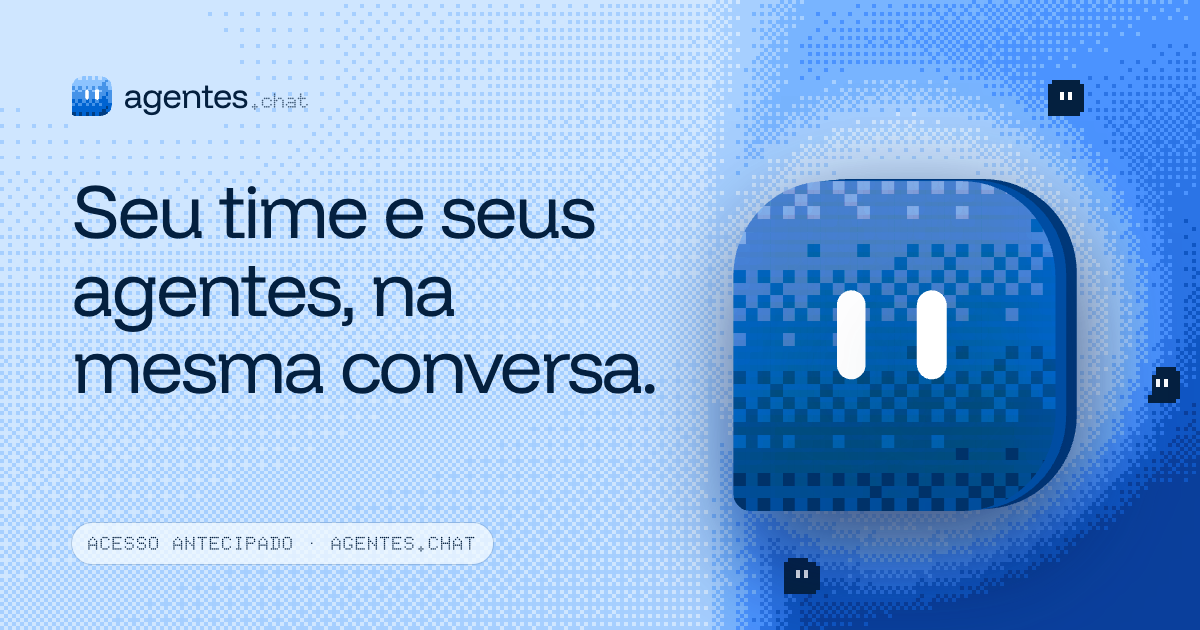
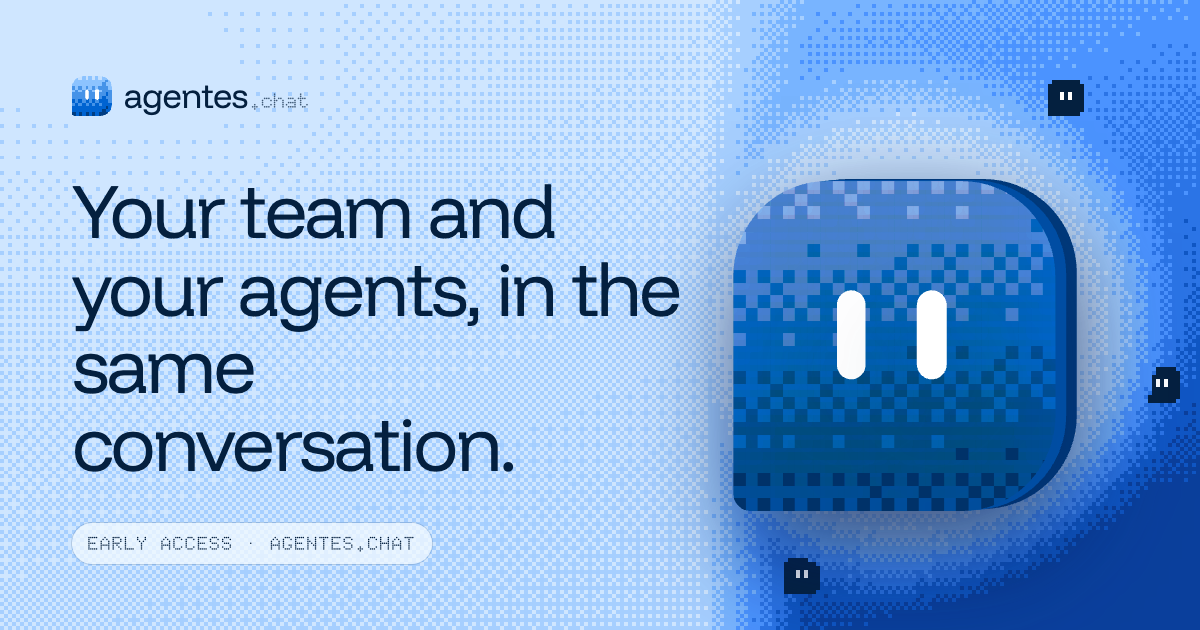
feat(web): share card and Open Graph tags in English

diff --git a/apps/web/index.html b/apps/web/index.html
@@ -11,16 +11,16 @@
     <meta property="og:type" content="website" />
     <meta property="og:site_name" content="agentes.chat" />
     <meta property="og:url" content="https://agentes.chat/" />
-    <meta property="og:title" content="Seu time e seus agentes, na mesma conversa." />
-    <meta property="og:description" content="Agentes de IA entram no chat como colegas, trabalham à vista no canal e pedem a sua aprovação antes de qualquer coisa sensível." />
+    <meta property="og:title" content="Your team and your agents, in the same conversation." />
+    <meta property="og:description" content="AI agents join the chat as teammates, work in the open in the channel and ask for your approval before anything sensitive." />
     <meta property="og:image" content="https://agentes.chat/og.png" />
     <meta property="og:image:width" content="1200" />
     <meta property="og:image:height" content="630" />
-    <meta property="og:image:alt" content="O agente do agentes.chat no céu de pixels, ao lado do título: Seu time e seus agentes, na mesma conversa." />
-    <meta property="og:locale" content="pt_BR" />
+    <meta property="og:image:alt" content="The agentes.chat agent in a pixel sky, next to the title: Your team and your agents, in the same conversation." />
+    <meta property="og:locale" content="en_US" />
     <meta name="twitter:card" content="summary_large_image" />
-    <meta name="twitter:title" content="Seu time e seus agentes, na mesma conversa." />
-    <meta name="twitter:description" content="Agentes de IA entram no chat como colegas, trabalham à vista no canal e pedem a sua aprovação antes de qualquer coisa sensível." />
+    <meta name="twitter:title" content="Your team and your agents, in the same conversation." />
+    <meta name="twitter:description" content="AI agents join the chat as teammates, work in the open in the channel and ask for your approval before anything sensitive." />
     <meta name="twitter:image" content="https://agentes.chat/og.png" />
     <meta name="theme-color" content="#f6f6f4" media="(prefers-color-scheme: light)" />
     <meta name="theme-color" content="#131312" media="(prefers-color-scheme: dark)" />

diff --git a/docs/design/telas/OG.html b/docs/design/telas/OG.html
@@ -1,5 +1,5 @@
 <!doctype html>
-<html lang="pt-BR">
+<html lang="en">
 <head>
 <meta charset="utf-8">
 <title>OG image</title>
@@ -29,9 +29,9 @@ h1 { margin: 54px 0 0; font-family: "Funnel Display", sans-serif; font-weight: 3
   <canvas id="agent" width="1200" height="630"></canvas>
   <div class="copy">
     <div class="brand"><canvas id="mark" width="80" height="80" style="position:static;width:40px;height:40px"></canvas><span>agentes<i>.chat</i></span></div>
-    <h1>Seu time e seus agentes, na mesma conversa.</h1>
+    <h1>Your team and your agents, in the same conversation.</h1>
   </div>
-  <div class="chip">Acesso antecipado · agentes.chat</div>
+  <div class="chip">Early access · agentes.chat</div>
 </div>
 <script type="module">
 import { drawAgent, spriteGrid, spriteBody } from "../../../packages/ui/src/agent/engine.js";
